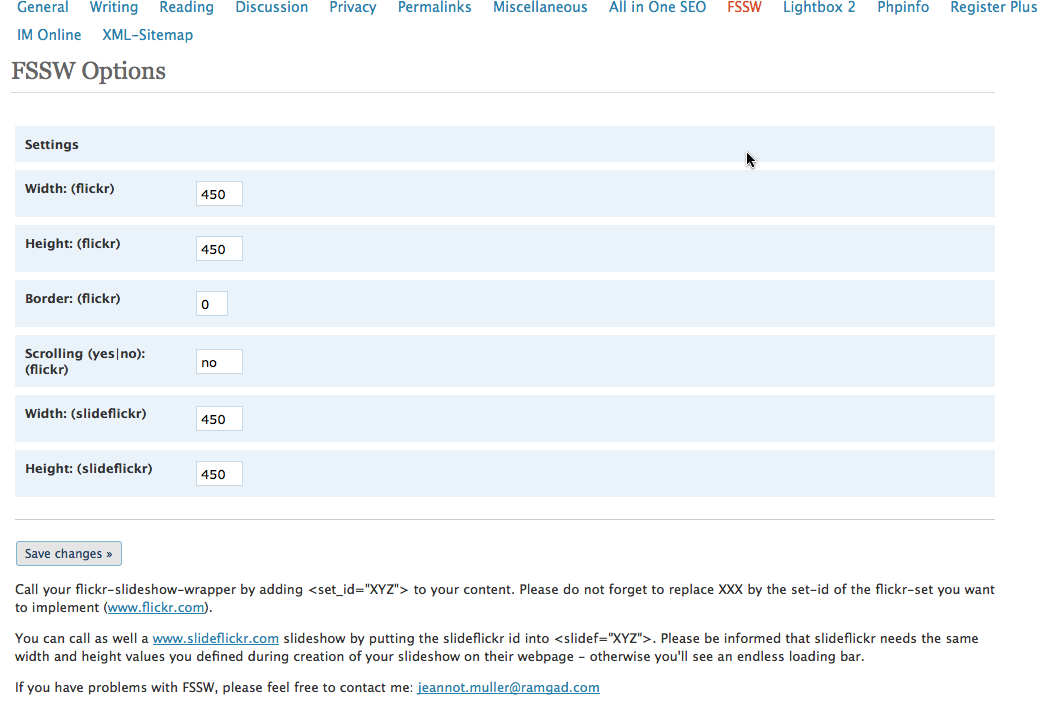
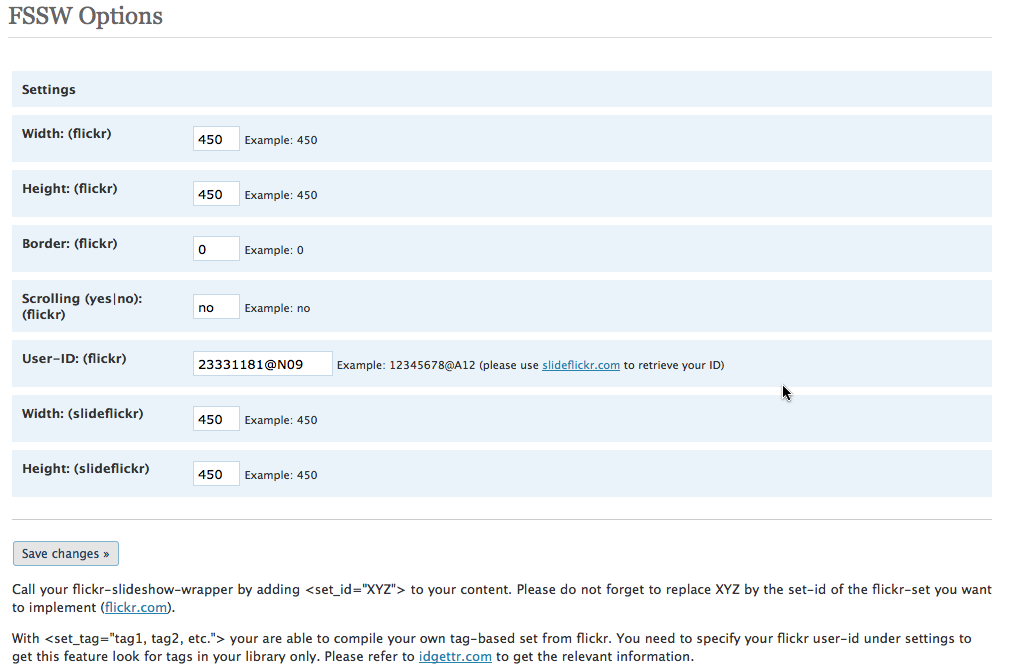
3.8.0
git-svn-id: https://plugins.svn.wordpress.org/flickr-slideshow-wrapper/trunk@48583 b8457f37-d9ea-0310-8a92-e5e31aec5664

diff --git a/flickr-slideshow-wrapper.php b/flickr-slideshow-wrapper.php
@@ -2,8 +2,8 @@
 /*
 Plugin Name: flickr-slideshow-wrapper
 Plugin URI: http://www.ramgad.com/flickr-slideshow-wrapper/
-Description: Including flickr slideshows. Call fssw by adding &lt;set&#95;id="XYZ"&gt; to your content. Please do not forget to replace XYZ by the set-id of the flickr-set you want to implement (<a href="htt://www.flickr.com">flickr.com</a>). You can as well implement a <a href="http://www.slideflickr.com">slideflickr.com</a> show by putting the slideflickr id into &lt;slidef="XYZ"&gt;.
-Version: 3.7.8
+Description: Including flickr slideshows. Call fssw by adding &lt;set&#95;id="XYZ"&gt; to your content. Please do not forget to replace XYZ by the set-id of the flickr-set you want to implement (<a href="htt://www.flickr.com" target="_blank">flickr.com</a>). With &lt;set&#95;tag="tag1, tag2, etc."&gt; your are able to compile your own tag-based set from flickr. Please refer to <a href="http://idgettr.com/" target="_blank">idgettr.com</a> to get the relevant information. You can as well implement a <a href="http://www.slideflickr.com" target="_blank">slideflickr.com</a> show by putting the slideflickr id into &lt;slidef="XYZ"&gt;.
+Version: 3.8.0
 Author: Dr. Jeannot Muller
 Author URI: http://www.ramgad.com/
 Min WP Version: 2.1
@@ -18,7 +18,8 @@ Max WP Version: 2.5.1
     	update_option("fssw_scroll",$HTTP_POST_VARS['fssw_scroll']);
         update_option("fssw_sfli_w",$HTTP_POST_VARS['fssw_sfli_w']);
         update_option("fssw_sfli_h",$HTTP_POST_VARS['fssw_sfli_h']);
-	}
+        update_option("fssw_userid",$HTTP_POST_VARS['fssw_userid']);
+}
 
 if (!class_exists('fssw_main')) {
     class fssw_main {
@@ -50,26 +51,29 @@ function fssw_description_option_page() {
 						<table class="form-table">
 						<tr><th scope="col" colspan="3" cellpadding="15">Settings</th></tr>
 		                                <tr><th scope="row">Width: (flickr)</th><td>
-		                    <input name="fssw_width" size="3" value="<?=get_option("fssw_width");?>" type="text" /></td></tr>
+		                    <input name="fssw_width" size="3" value="<?=get_option("fssw_width");?>" type="text" />   Example: 450</td></tr>
 						<tr><th scope="row">Height: (flickr)</th><td>
-		                    <input name="fssw_height" size="3" value="<?=get_option("fssw_height");?>" type="text" /></td></tr>
+		                    <input name="fssw_height" size="3" value="<?=get_option("fssw_height");?>" type="text" />   Example: 450</td></tr>
 						<tr><th scope="row">Border: (flickr)</th><td>
-			            <input name="fssw_border" size="1" value="<?=get_option("fssw_border");?>" type="text" /></td></tr>
+			            <input name="fssw_border" size="3" value="<?=get_option("fssw_border");?>" type="text" />   Example: 0</td></tr>
 						<tr><th scope="row">Scrolling (yes|no): (flickr)</th><td>
-				    <input name="fssw_scroll" size="3" value="<?=get_option("fssw_scroll");?>" type="text" /></td></tr>
-                                                <tr><th scope="row">Width: (slideflickr)</th><td>
-			            <input name="fssw_sfli_w" size="3" value="<?=get_option("fssw_sfli_w");?>" type="text" /></td></tr>
+				    <input name="fssw_scroll" size="3" value="<?=get_option("fssw_scroll");?>" type="text" />   Example: no</td></tr>
+                                                <tr><th scope="row">User-ID: (flickr)</th><td>
+			            <input name="fssw_userid" size="15" value="<?=get_option("fssw_userid");?>" type="text" />   Example: 12345678@A12 (please use <a href="http://www.slideflickr.com/" target="_blank">slideflickr.com</a> to retrieve your ID)</td></tr>
+				                <tr><th scope="row">Width: (slideflickr)</th><td>
+			            <input name="fssw_sfli_w" size="3" value="<?=get_option("fssw_sfli_w");?>" type="text" />   Example: 450</td></tr>
                                                 <tr><th scope="row">Height: (slideflickr)</th><td>
-			            <input name="fssw_sfli_h" size="3" value="<?=get_option("fssw_sfli_h");?>" type="text" /></td></tr>
-				</table>
+			            <input name="fssw_sfli_h" size="3" value="<?=get_option("fssw_sfli_h");?>" type="text" />   Example: 450</td></tr>
+</table>
 	      <br>
 	      <p class="submit"><input name="submit" type="submit" id="submit" value="Save changes &raquo;">
 	     <input class="submit" name="action" value="insert": type="hidden" /></p>
 	    </form>
 	  </div>
 	</div>
-	<p style="text-align:justify;">Call your flickr-slideshow-wrapper by adding &lt;set_id="XYZ"&gt; to your content. Please do not forget to replace XXX by the set-id of the flickr-set you want to implement (<a href="http://www.flickr.com">www.flickr.com</a>).</p>
-	<p style="text-algin:justify;">You can call as well a  <a href="http://www.slideflickr.com/">www.slideflickr.com</a> slideshow by putting the slideflickr id into &lt;slidef="XYZ"&gt;. Please be informed that slideflickr needs the same width and height values you defined during creation of your slideshow on their webpage - otherwise you'll see an endless loading bar.
+	<p style="text-align:justify;">Call your flickr-slideshow-wrapper by adding &lt;set_id="XYZ"&gt; to your content. Please do not forget to replace XYZ by the set-id of the flickr-set you want to implement (<a href="http://www.flickr.com" target="_blank">flickr.com</a>).</p>
+	<p style="text-algin:justify;">With &lt;set&#95;tag="tag1, tag2, etc."&gt; your are able to compile your own tag-based set from flickr. You need to specify your flickr user-id under settings to get this feature look for tags in your library only. Please refer to <a href="http://idgettr.com/" target="_blank">idgettr.com</a> to get the relevant information.</p>
+	<p style="text-algin:justify;">You can call as well a  <a href="http://www.slideflickr.com/" target="_blank">slideflickr.com</a> slideshow by putting the slideflickr id into &lt;slidef="XYZ"&gt;. Please be informed that slideflickr needs the same width and height values you defined during creation of your slideshow on their webpage - otherwise you'll see an endless loading bar.
 	<p style="text-align:justify;">If you have problems with FSSW, please feel free to contact me: <a href="mailto:jeannot.muller@ramgad.com">jeannot.muller@ramgad.com</a></p>
 
 <?php
@@ -78,7 +82,7 @@ function fssw_description_option_page() {
 
 // Adminmenu Optionen erweitern
 function fssw_description_add_menu() {
-      global $fssw_width, $fssw_height, $fssw_border, $fssw_scroll, $fssw_sfli_w, $fssw_sfli_h; 
+      global $fssw_width, $fssw_height, $fssw_border, $fssw_scroll, $fssw_sfli_w, $fssw_sfli_h; $fssw_userid;
       add_options_page('FSSW', 'FSSW', 9, __FILE__, 'fssw_description_option_page'); //optionenseite hinzufügen
 }
 
@@ -89,6 +93,7 @@ function get_flickr_set_id($content) {
 		 $fssw_scroll  = get_option('fssw_scroll');
 		 $fssw_sfli_w  = get_option('fssw_sfli_w');
 		 $fssw_sfli_h  = get_option('fssw_sfli_h');
+		 $fssw_userid  = get_option('fssw_userid');
 
 // standard initialisation (default values)	
 		 if ( $fssw_width == null or $fssw_height == null) {
@@ -99,6 +104,11 @@ function get_flickr_set_id($content) {
 	// parse and replace	 
 
                  $content = preg_replace('/<set_id="([a-zA-Z0-9_]+)"\/?>/', '<iframe width="' . $fssw_width . '" height="' . $fssw_height . '" src="http://www.flickr.com/slideShow/index.gne?set_id=$1" frameBorder="' . $fssw_border . '" scrolling="' . $fssw_scroll . '"></iframe>', $content);
+
+
+                 $content = preg_replace('/<set_tag="(\w.+)"\/?>/', '<iframe width="' . $fssw_width . '" height="' . $fssw_height . '" src="http://www.flickr.com/slideShow/index.gne?user_id=' . $fssw_userid . '&tags=$1' . '" frameBorder="' . $fssw_border . '" scrolling="' . $fssw_scroll . '"></iframe>', $content);
+
+
 
                  $content = preg_replace('/<slidef="([a-zA-Z0-9_]+)"\/?>/', '<object width="' . $fssw_sfli_w . '" height="' . $fssw_sfli_h . '"><param name="movie" value="http://www.slideflickr.com/slide/$1"></param><param name="wmode" value="transparent"></param><embed src="http://www.slideflickr.com/slide/$1" type="application/x-shockwave-flash" wmode="transparent" width="' . $fssw_sfli_w . '" height="' . $fssw_sfli_h . '"></embed></object>', $content);
 
